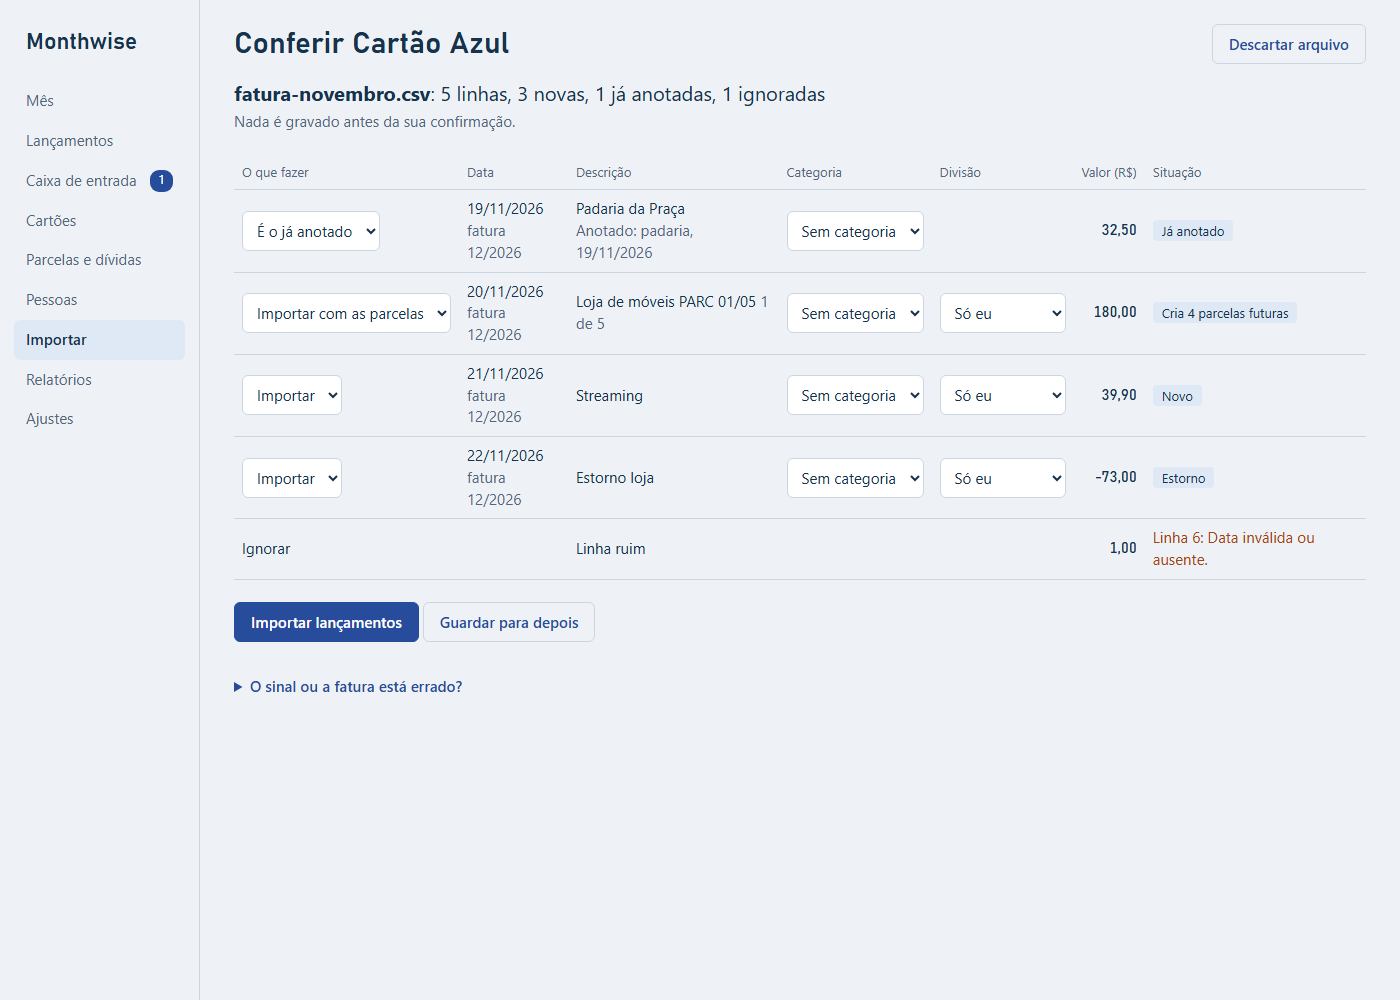
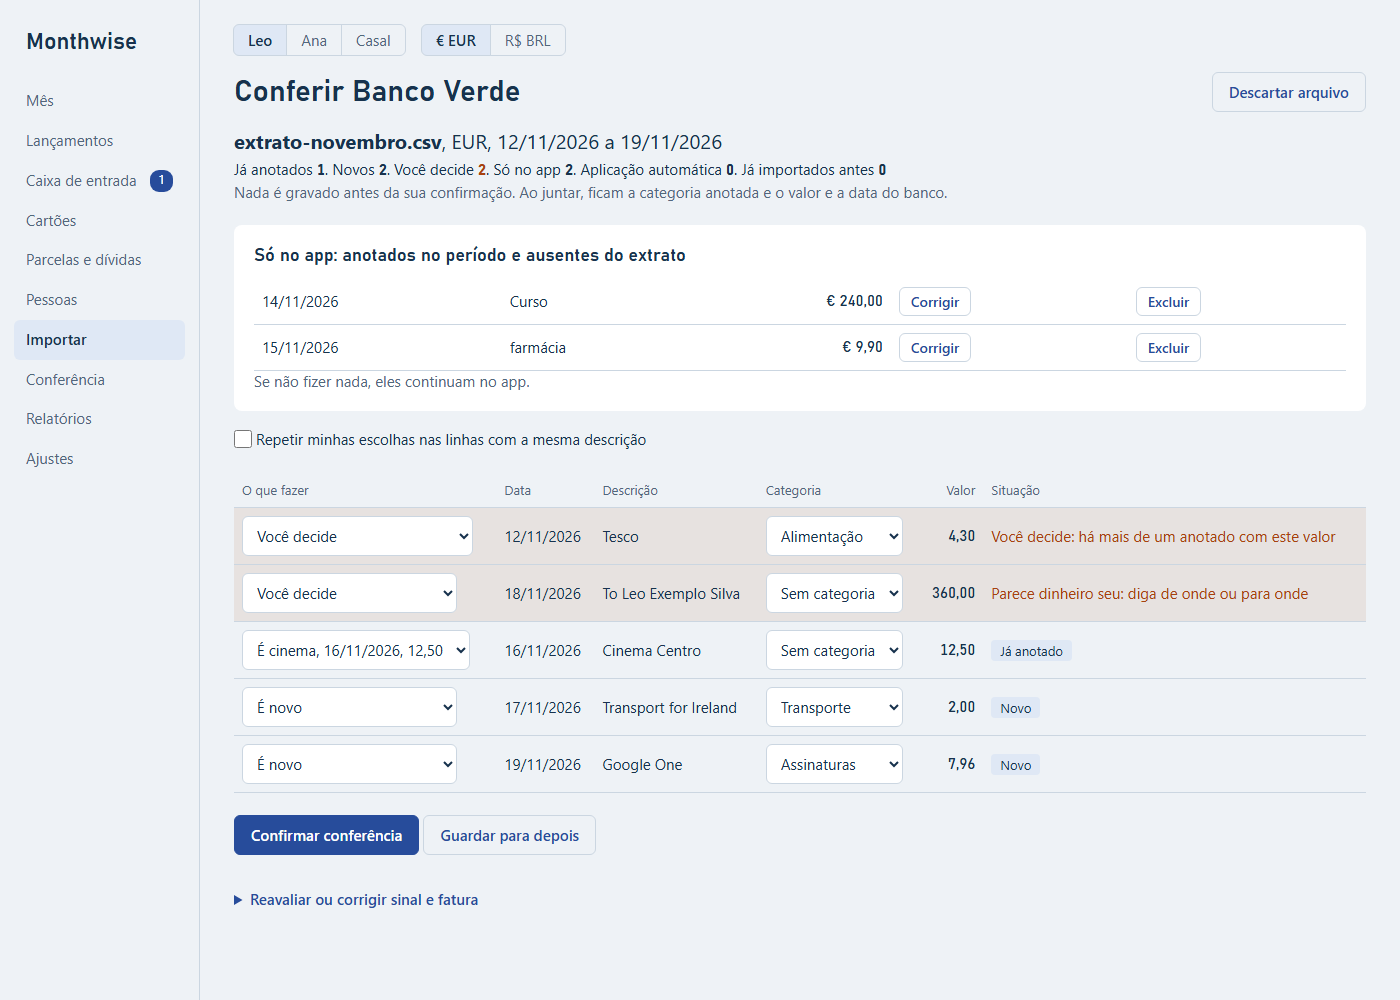
docs: apresentação da versão 0.2

diff --git a/README.md b/README.md
@@ -19,19 +19,20 @@ Veja quanto falta pagar no mês e quanto dos próximos já está comprometido.</
 | | |
 |---|---|
 | **Mês** | Contas pagas e em aberto, receitas, sobra prevista e atrasadas. |
-| **Anotação rápida** | Escreva `mercado 120 3x azul`, confira o que foi entendido e salve. |
-| **Cartões** | Faturas, pagamento parcial, parcelas, estornos e crédito para a fatura seguinte. |
-| **Dívidas** | Cronograma, consignado, quitação antecipada e refinanciamento. |
-| **Pessoas** | Divisão de gastos e acertos, inclusive em cartão de outra pessoa. |
-| **Importação** | OFX, CSV e Excel, com conferência, aviso de repetidos e opção de desfazer. |
-| **Relatórios** | Gastos por categoria, comparação mensal e exportação CSV. |
+| **Moedas** | Euro, real, dólar e libra, com totais separados e transferências entre moedas. |
+| **Casal** | Visão de cada pessoa e dos dois juntos, também nos gráficos. |
+| **Anotação rápida** | Escreva `mercado 12 azul`, confira o que foi entendido e salve. |
+| **Extratos** | Revolut e Banco do Brasil reconhecidos; OFX, CSV e Excel dos demais. Vários arquivos de uma vez. |
+| **Conferência** | Junta o que você anotou com o extrato, pergunta quando há dúvida e compara o saldo com o do banco. |
+| **Cartões e dívidas** | Faturas, parcelas, consignado, quitação e refinanciamento. |
+| **Relatórios** | Categorias, renda e gastos por mês, parcelas futuras e exportação CSV. |
 | **Backup** | Cópia diária e restauração com prévia. |
 
-![Conferência de uma fatura antes de importar](docs/conferir.png)
+![Conferência de um extrato: o que já foi anotado, o que é novo e o que precisa de decisão](docs/conferir.png)
 
-![Tela do mês no tema escuro](docs/mes-escuro.png)
+![Relatório do casal, com a parte de cada pessoa](docs/relatorios.png)
 
-<sub>As imagens usam dados fictícios.</sub>
+<sub>As imagens usam dados fictícios. No modo casal, o filtro organiza, mas não esconde dados de quem abrir o app no mesmo computador.</sub>
 
 ## Seus dados
 
@@ -46,6 +47,6 @@ Veja quanto falta pagar no mês e quanto dos próximos já está comprometido.</
 2. Execute o instalador. Não é preciso ser administrador.
 3. Abra o **Monthwise** pelo Menu Iniciar.
 
-O instalador não tem assinatura digital, então o Windows pode mostrar um aviso. O app funciona em português e em reais.
+O instalador não tem assinatura digital, então o Windows pode mostrar um aviso. O app está em português.
 
 O Monthwise organiza informações que você fornece e não é consultoria financeira.
